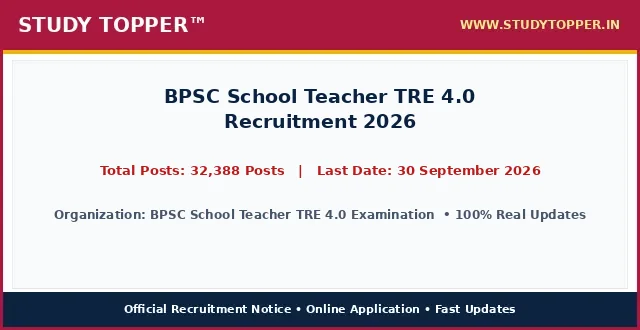
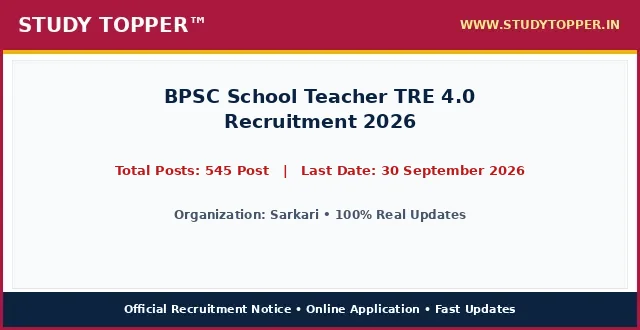
chore(lifecycle): daily auto-sort vacancies and update active dates

Changed region(s): [[0.1562, 0.4848, 0.8438, 0.5455], [0.0625, 0.6364, 0.9375, 0.6667]]

diff --git a/pages/bpsc-school-teacher-tre-4-0-2026.html b/pages/bpsc-school-teacher-tre-4-0-2026.html
@@ -987,12 +987,12 @@ ul.wp-block-latest-posts a:hover {
 <main class="site-main" id="main">
 <div class="gb-container gb-container-b39c368c">
 <h1 class="gb-headline gb-headline-e52a0102 gb-headline-text" style="font-size: 22px; font-weight: 700; color: #0000cd; text-align: left; margin: 8px 0 4px 0; line-height: 1.3; width: 100%; font-family: '-apple-system, BlinkMacSystemFont, 'Segoe UI', Roboto, 'Helvetica Neue', Arial, sans-serif', Times, serif, Hind, sans-serif;">BPSC School Teacher TRE 4.0 Recruitment 2026</h1>
-<div class="gb-container gb-container-659bd175"><p style="color: #cd0808; font-weight: 700; font-size: 15px; margin: 2px 0 7px 0; text-align: left; font-family: '-apple-system, BlinkMacSystemFont, 'Segoe UI', Roboto, 'Helvetica Neue', Arial, sans-serif', Times, serif, Hind, sans-serif;">Post Date: August 21, 2026 07:49 PM</p></div>
-<p class="gb-headline gb-headline-550ae316 short_Details gb-headline-text" style="width: 100%; max-width: 100%; font-size: 16.8px; line-height: 1.55; color: #000000; text-align: justify; text-justify: inter-word; margin: 8px 0 14px 0; display: block; font-family: '-apple-system, BlinkMacSystemFont, 'Segoe UI', Roboto, 'Helvetica Neue', Arial, sans-serif', Times, serif, Hind, sans-serif;"><strong style="color: #0000cd;">BPSC School Teacher TRE 4.0 Examination 2025</strong> has officially published the recruitment notice <strong style="color: #cd0808;">BPSC School Teacher TRE 4.0 Recruitment 2026</strong> under notification number Official Advt 2026. Online applications are invited for 32,388 Posts across multiple departments and cadre positions. Interested candidates possessing the requisite educational qualifications and falling between 21 Years (Class 9 to 10 & 11 to 12) to 42 Years (SC/ ST-Male & Female) can complete their online registration before the application deadline of 30 September 2026. Applicants should read the eligibility criteria, category reservation rules, and exam scheme thoroughly before submitting applications.</p>
+<div class="gb-container gb-container-659bd175"><p style="color: #cd0808; font-weight: 700; font-size: 15px; margin: 2px 0 7px 0; text-align: left; font-family: '-apple-system, BlinkMacSystemFont, 'Segoe UI', Roboto, 'Helvetica Neue', Arial, sans-serif', Times, serif, Hind, sans-serif;">Post Date: August 22, 2026 11:55 AM</p></div>
+<p class="gb-headline gb-headline-550ae316 short_Details gb-headline-text" style="width: 100%; max-width: 100%; font-size: 16.8px; line-height: 1.55; color: #000000; text-align: justify; text-justify: inter-word; margin: 8px 0 14px 0; display: block; font-family: '-apple-system, BlinkMacSystemFont, 'Segoe UI', Roboto, 'Helvetica Neue', Arial, sans-serif', Times, serif, Hind, sans-serif;"><strong style="color: #0000cd;">Sarkari</strong> has officially published the recruitment notice <strong style="color: #cd0808;">BPSC School Teacher TRE 4.0 Recruitment 2026</strong> under notification number Official Advt 2026. Online applications are invited for 545 Post across multiple departments and cadre positions. Interested candidates possessing the requisite educational qualifications and falling between 18 Years to 40 Years can complete their online registration before the application deadline of 30 September 2026. Applicants should read the eligibility criteria, category reservation rules, and exam scheme thoroughly before submitting applications.</p>
 <div class="gb-container gb-container-9849916c"><div class="social-buttons-compact" style="display: flex; justify-content: flex-start; align-items: center; gap: 10px; margin: 10px 0 16px 0; width: 100%;"><a class="social-btn-compact wa" href="https://whatsapp.com/channel/0029Va9xyz" rel="noopener" style="background-color: #00d084; color: #ffffff; padding: 10px 18px; border-radius: 4px; text-decoration: none; font-weight: bold; font-size: 15.5px; display: inline-flex; align-items: center; justify-content: center; height: auto;" target="_blank">WhatsApp</a><a class="social-btn-compact tg" href="https://t.me/studytopperofficial" rel="noopener" style="background-color: #0088cc; color: #ffffff; padding: 10px 18px; border-radius: 4px; text-decoration: none; font-weight: bold; font-size: 15.5px; display: inline-flex; align-items: center; justify-content: center; height: auto;" target="_blank">Telegram</a></div></div>
 <div class="gb-container gb-container-f58e6ca1" style="border: 2px solid #5b032f; border-radius: 4px; overflow: hidden; margin: 15px 0 20px 0; background-color: #ffffff; width: 100%; box-sizing: border-box;">
 <h2 class="gb-headline gb-headline-2ca5a791 gb-headline-text" style="font-size: 16px; font-weight: 700; text-align: center; color: #ef0303; line-height: 1.3; padding: 6px 4px; margin: 0; background: #ffffff; font-family: '-apple-system, BlinkMacSystemFont, 'Segoe UI', Roboto, 'Helvetica Neue', Arial, sans-serif', Times, serif, Hind, sans-serif;">BPSC School Teacher TRE 4.0 Recruitment 2026 &ndash; Latest Details &amp; Updates</h2>
-<h3 class="gb-headline gb-headline-7d5f86e8 gb-headline-text" style="font-size: 16px; font-weight: 600; text-align: center; color: #009703; line-height: 1.25; margin: 0; padding: 2px 4px 6px 4px; background: #ffffff; font-family: '-apple-system, BlinkMacSystemFont, 'Segoe UI', Roboto, 'Helvetica Neue', Arial, sans-serif', Times, serif, Hind, sans-serif;">BPSC School Teacher TRE 4.0 Examination 2025 : Details &amp; Summary</h3>
+<h3 class="gb-headline gb-headline-7d5f86e8 gb-headline-text" style="font-size: 16px; font-weight: 600; text-align: center; color: #009703; line-height: 1.25; margin: 0; padding: 2px 4px 6px 4px; background: #ffffff; font-family: '-apple-system, BlinkMacSystemFont, 'Segoe UI', Roboto, 'Helvetica Neue', Arial, sans-serif', Times, serif, Hind, sans-serif;">Sarkari : Details &amp; Summary</h3>
 <p class="gb-headline gb-headline-79adf169 gb-headline-text" style="margin: 0 0 6px 0; font-family: '-apple-system, BlinkMacSystemFont, 'Segoe UI', Roboto, 'Helvetica Neue', Arial, sans-serif', Times, serif, Hind, sans-serif; text-align: center; font-size: 18px; font-weight: 700;"><a href="/" style="color: #0000ff; text-decoration: underline;">StudyTopper.in</a></p>
 
 <style id="st-post-boxes-responsive-css">
@@ -1025,7 +1025,7 @@ ul.wp-block-latest-posts a:hover {
     <div style="background-color: #5b032f; color: #ffffff; padding: 8px 10px; font-size: 20px; font-weight: 700; text-align: center; font-family: '-apple-system, BlinkMacSystemFont, 'Segoe UI', Roboto, 'Helvetica Neue', Arial, sans-serif', Times, serif, Hind, sans-serif;">Important Dates</div>
     <div style="padding: 12px 14px; background-color: #ffffff;">
       <ul style="padding-left: 20px; margin: 0; list-style-type: disc; text-align: left; font-size: 14pt; line-height: 1.6; font-family: '-apple-system, BlinkMacSystemFont, 'Segoe UI', Roboto, 'Helvetica Neue', Arial, sans-serif', Times, serif, Hind, sans-serif;">
-        <li><span style="font-size: 14pt;">Online Apply Start Date : <strong>01 September 2026</strong></span></li><li><span style="font-size: 14pt;">Online Apply Last Date : <span style="color: #ff0000;"><strong>30 September 2026</strong></span></span></li><li><span style="font-size: 14pt;">Last Date For Fee Payment : <span style="color: #ff0000;"><strong>29 September 2026</strong></span></span></li><li><span style="font-size: 14pt;">Exam Date : <strong>Notify Later</strong></span></li><li><span style="font-size: 14pt;">Admit Card : <strong>Before Exam</strong></span></li><li><span style="font-size: 14pt;">Result Date : <strong>Will Be Updated Here Soon</strong></span></li>
+        
       </ul>
     </div>
   </div>
@@ -1034,7 +1034,7 @@ ul.wp-block-latest-posts a:hover {
     <div style="background-color: #5b032f; color: #ffffff; padding: 8px 10px; font-size: 20px; font-weight: 700; text-align: center; font-family: '-apple-system, BlinkMacSystemFont, 'Segoe UI', Roboto, 'Helvetica Neue', Arial, sans-serif', Times, serif, Hind, sans-serif;">Application Fee</div>
     <div style="padding: 12px 14px; background-color: #ffffff;">
       <ul style="padding-left: 20px; margin: 0; list-style-type: disc; text-align: left; font-size: 14pt; line-height: 1.6; font-family: '-apple-system, BlinkMacSystemFont, 'Segoe UI', Roboto, 'Helvetica Neue', Arial, sans-serif', Times, serif, Hind, sans-serif;">
-        <li><span style="font-size: 14pt;">For All Category Candidates : <strong>₹ 100/-</strong></span></li><li><span style="font-size: 14pt;">Payment Mode (Online) : <strong>You can make the payment using the following methods: Debit Card Credit Card Internet Banking IMPS Cash Card / Mobile Wallet</strong></span></li>
+        <li><span style="font-size: 14pt;">Bihar Police BPSSC Sub Inspector SI Prohibition Result 2026 Advt. No. : <strong>03/2026</strong></span></li><li><span style="font-size: 14pt;">UP Scholarship Online Form 2026 : <strong>2027</strong></span></li>
       </ul>
       <div style="margin-top: 10px; font-size: 14pt; line-height: 1.5; color: #000000; border-top: 1px dashed #ccc; padding-top: 8px; font-family: '-apple-system, BlinkMacSystemFont, 'Segoe UI', Roboto, 'Helvetica Neue', Arial, sans-serif', Times, serif, Hind, sans-serif;">
         <strong>Mode of Payment / Access:</strong> Online via Net Banking, Debit Card, Credit Card, UPI or Free Candidate Portal.
@@ -1047,10 +1047,10 @@ ul.wp-block-latest-posts a:hover {
 <div class="st-grid-row" style="display: flex; flex-wrap: wrap; width: 100%; border-top: 2px solid #5b032f; margin: 0; padding: 0; box-sizing: border-box;">
   <!-- Left Col: Age Limits -->
   <div class="st-col-half st-col-border-right" style="box-sizing: border-box; vertical-align: top;">
-    <div style="background-color: #046132; color: #ffffff; padding: 8px 10px; font-size: 17px; font-weight: 700; text-align: center; font-family: '-apple-system, BlinkMacSystemFont, 'Segoe UI', Roboto, 'Helvetica Neue', Arial, sans-serif', Times, serif, Hind, sans-serif;">BPSC School Teacher TRE 4.0 Examination 2025 : Age Limits As On 01 August 2026</div>
+    <div style="background-color: #046132; color: #ffffff; padding: 8px 10px; font-size: 17px; font-weight: 700; text-align: center; font-family: '-apple-system, BlinkMacSystemFont, 'Segoe UI', Roboto, 'Helvetica Neue', Arial, sans-serif', Times, serif, Hind, sans-serif;">Sarkari : Age Limits As On 01 August 2026</div>
     <div style="padding: 12px 14px; background-color: #ffffff;">
       <ul style="padding-left: 20px; margin: 0; list-style-type: disc; text-align: left; font-size: 14pt; line-height: 1.6; font-family: '-apple-system, BlinkMacSystemFont, 'Segoe UI', Roboto, 'Helvetica Neue', Arial, sans-serif', Times, serif, Hind, sans-serif;">
-        <li><span style="font-size: 14pt;">Minimum Age : <strong>21 Years (Class 9 to 10 & 11 to 12)</strong></span></li><li><span style="font-size: 14pt;">Maximum Age : <strong>42 Years (SC/ ST-Male & Female)</strong></span></li>
+        
       </ul>
     </div>
   </div>
@@ -1058,7 +1058,7 @@ ul.wp-block-latest-posts a:hover {
   <div class="st-col-half" style="box-sizing: border-box; vertical-align: top;">
     <div style="background-color: #f53c00; color: #ffffff; padding: 8px 10px; font-size: 20px; font-weight: 700; text-align: center; font-family: '-apple-system, BlinkMacSystemFont, 'Segoe UI', Roboto, 'Helvetica Neue', Arial, sans-serif', Times, serif, Hind, sans-serif;">Total Post</div>
     <div style="padding: 24px 10px; background-color: #ffffff; text-align: center;">
-      <span style="font-size: 28px; font-weight: 800; color: #000000; font-family: '-apple-system, BlinkMacSystemFont, 'Segoe UI', Roboto, 'Helvetica Neue', Arial, sans-serif', Times, serif, Hind, sans-serif;">32,388 Posts</span>
+      <span style="font-size: 28px; font-weight: 800; color: #000000; font-family: '-apple-system, BlinkMacSystemFont, 'Segoe UI', Roboto, 'Helvetica Neue', Arial, sans-serif', Times, serif, Hind, sans-serif;">545 Post</span>
     </div>
   </div>
 </div>
@@ -1070,19 +1070,7 @@ ul.wp-block-latest-posts a:hover {
 <div class="gb-container gb-container-ec1f6e4c">
 <h2 class="gb-headline gb-headline-c7683bda gb-headline-text" style="font-size: 24px; font-weight: 800; text-align: center; color: #ef0303; line-height: 1.35; margin: 20px 0 12px 0; padding: 6px 4px; font-family: '-apple-system, BlinkMacSystemFont, 'Segoe UI', Roboto, 'Helvetica Neue', Arial, sans-serif', Times, serif, Hind, sans-serif;">BPSC School Teacher TRE 4.0 Recruitment 2026 : Key Overview &amp; Matrix</h2>
 <div class="gb-headline gb-headline-60ccea19 gb-headline-text">
-<table style="border-collapse: collapse; width: 100%; height: 150px;">
-<tbody>
-<tr style="height: 25px;">
-<td colspan="2" style="width: 50%; text-align: center; height: 25px;"><span style="background-color: #000080; color: #ffffff; font-size: 14pt;"><strong> BPSC School Teacher TRE 4.0 Examination 2025 : Category Wise Vacancy Details </strong></span></td>
-</tr>
-<tr style="height: 25px;">
-<td style="width: 50%; height: 25px; text-align: center;"><span style="font-size: 14pt;"><strong>Category / Particulars</strong></span></td>
-<td style="width: 50%; height: 25px; text-align: center;"><span style="font-size: 14pt;"><strong>Count / Status</strong></span></td>
-</tr>
-<tr><td style="text-align: center;">General (UR)</td><td style="text-align: center; font-weight: normal; color: inherit;">As per Rules</td></tr><tr><td style="text-align: center;">OBC / EWS</td><td style="text-align: center; font-weight: normal; color: inherit;">As per Rules</td></tr><tr><td style="text-align: center;">SC / ST</td><td style="text-align: center; font-weight: normal; color: inherit;">As per Rules</td></tr><tr><td style="text-align: center;">Total Vacancies</td><td style="text-align: center; font-weight: bold; color: #ff0000;">32,388 Posts</td></tr>
-</tbody>
-</table>
-<p>&nbsp;</p>
+
 <table style="border-collapse: collapse; width: 100%;">
 <tbody>
 <tr>
@@ -1091,32 +1079,13 @@ ul.wp-block-latest-posts a:hover {
 <th style="background-color: #f53c00; color: #ffffff; padding: 6px 10px; text-align: center; border: 1px solid #d35400; font-size: 15px; font-weight: 700; font-family: '-apple-system, BlinkMacSystemFont, 'Segoe UI', Roboto, 'Helvetica Neue', Arial, sans-serif', Times, serif, Hind, sans-serif;">Eligibility Criteria</th>
 </tr>
 <tr>
-<td style="padding: 8px; border: 1px solid #ddd; font-weight: bold;">School Teacher (Class 1 to 5)</td>
-<td style="padding: 8px; border: 1px solid #ddd; text-align: center; font-weight: bold;">32,388 Posts</td>
-<td style="padding: 8px; border: 1px solid #ddd;">Bachelor Degree with 50% Marks and B.Ed Degree OR Bachelor Degree in Any Stream with Diploma in Elementary Education OR 10+2 Inter with 50% Marks with 2 Year Diploma in Elementary Education / Special Diploma OR 10+2 Inter with 45% Marks (As per 2002 Norms) with 2 Year Diploma in Elementary Education OR 10+2 Inter with 50% Marks with 4 Year BLEd Degree OR Master Degree with 55% Marks and B.Ed – Med 3 Year Degree CTET Paper I OR BTET Paper I Exam Qualified.</td>
-</tr><tr>
-<td style="padding: 8px; border: 1px solid #ddd; font-weight: bold;">Middle School Teacher (Class 6 to 8)</td>
-<td style="padding: 8px; border: 1px solid #ddd; text-align: center; font-weight: bold;">32,388 Posts</td>
-<td style="padding: 8px; border: 1px solid #ddd;">Graduate with 2 Year Diploma in Elementry Education (D.Ed) OR Graduate / Post Graduate with 50% Marks with B.Ed OR Graduate with 45% Marks and B.Ed (NCTE Norms) OR Graduate with 50% Marks and BA BED and B.Sc Ed OR Graduate with 50% Marks and B.Ed Special OR Post Graduate with 55% Marks and 3 Year B.Ed – M.Ed Course. Form More Details, Read Official Notification.</td>
-</tr><tr>
-<td style="padding: 8px; border: 1px solid #ddd; font-weight: bold;">School Teacher (Class 6 to 10)</td>
-<td style="padding: 8px; border: 1px solid #ddd; text-align: center; font-weight: bold;">32,388 Posts</td>
-<td style="padding: 8px; border: 1px solid #ddd;">Graduate / Post Graduate in Related Subject with Minimum 50% Marks and B.Ed Degree OR Graduate / Post Graduate in Related Subject with Minimum 45% Marks (As per 2002 Norms) and B.Ed Degree OR 4 Year Degree in BAEd / BScEd STET Paper I Exam Passed Form More Details, Read Official Notification.</td>
-</tr><tr>
-<td style="padding: 8px; border: 1px solid #ddd; font-weight: bold;">Secondary School Teacher (TGT) (Class 9 to 10)</td>
-<td style="padding: 8px; border: 1px solid #ddd; text-align: center; font-weight: bold;">32,388 Posts</td>
-<td style="padding: 8px; border: 1px solid #ddd;">Graduate / Post Graduate in Related Subject with Minimum 50% Marks and B.Ed Degree OR Graduate / Post Graduate in Related Subject with Minimum 45% Marks (As per 2002 Norms) and B.Ed Degree OR 4 Year Degree in BAEd / BScEd STET Paper I Exam Passed (Subject Wise) Form More Details, Read Official Notification.</td>
-</tr><tr>
-<td style="padding: 8px; border: 1px solid #ddd; font-weight: bold;">Secondary School Teacher (TGT)-Special (Class 9 to 10)</td>
-<td style="padding: 8px; border: 1px solid #ddd; text-align: center; font-weight: bold;">32,388 Posts</td>
-<td style="padding: 8px; border: 1px solid #ddd;">Graduate / Post Graduate in Related Subject with Minimum 50% Marks and B.Ed Degree OR Graduate / Post Graduate Degree in Related Subject with Minimum 45% Marks (As per 2002 Norms) and B.Ed Degree OR 4 Year Degree in BAEd / BScEd STET Paper I Exam Passed (Subject Wise)</td>
-</tr><tr>
-<td style="padding: 8px; border: 1px solid #ddd; font-weight: bold;">10+2 School Teacher (PGT) (Class 11 to 12)</td>
-<td style="padding: 8px; border: 1px solid #ddd; text-align: center; font-weight: bold;">32,388 Posts</td>
-<td style="padding: 8px; border: 1px solid #ddd;">Post Graduate in Related Subject with Minimum 50% Marks and B.Ed Degree OR Post Graduate in Related Subject with Minimum 45% Marks (As per 2002 Norms) and B.Ed Degree OR Post Graduate in Related Subject with 4 Year Degree in BAEd / BScEd OR Master Degree with 55% Marks and B.Ed – Med 3 Year Degree. STET Paper II Exam Passed Form More Details, Read Official Notification.</td>
+<td style="padding: 8px; border: 1px solid #ddd; font-weight: bold;">Sarkari Recruitment</td>
+<td style="padding: 8px; border: 1px solid #ddd; text-align: center; font-weight: bold;">545 Post</td>
+<td style="padding: 8px; border: 1px solid #ddd;">Please refer to the official notification linked below for detailed educational qualifications.</td>
 </tr>
 </tbody>
 </table>
+<p>&nbsp;</p>
 <p>&nbsp;</p>
 
 
@@ -1124,10 +1093,10 @@ ul.wp-block-latest-posts a:hover {
 <table style="border-collapse: collapse; width: 100%;">
 <tbody>
 <tr>
-<td style="width: 100%; text-align: center;"><span style="background-color: #000080; color: #ffffff; font-size: 14pt; font-weight: bold; display: block; padding: 6px;"> How to Fill BPSC School Teacher TRE 4.0 Examination 2025 Online Application Form </span></td>
+<td style="width: 100%; text-align: center;"><span style="background-color: #000080; color: #ffffff; font-size: 14pt; font-weight: bold; display: block; padding: 6px;"> How to Fill Sarkari Online Application Form </span></td>
 </tr>
 <tr>
-<td style="width: 100%;"><ol style="margin:0; padding-left:18px; text-align: left !important; list-style-position: outside !important"><li style="margin-bottom:6px; text-align: left !important;">Visit official portal for BPSC School Teacher TRE 4.0 Recruitment 2026 via direct application link in important links section below.</li><li style="margin-bottom:6px; text-align: left !important;">Read official recruitment notification carefully to verify category eligibility criteria and age limits.</li><li style="margin-bottom:6px; text-align: left !important;">Complete online candidate registration with valid mobile number and email ID.</li><li style="margin-bottom:6px; text-align: left !important;">Fill educational qualifications, identity details, and permanent address accurately.</li><li style="margin-bottom:6px; text-align: left !important;">Upload scanned photograph and signature in required dimensions.</li><li style="margin-bottom:6px; text-align: left !important;">Resize candidate photograph and signature accurately using StudyTopper Tools resizer at indtool.in.</li><li style="margin-bottom:6px; text-align: left !important;">Pay applicable category application fee online using Debit Card, Credit Card, Net Banking, or UPI.</li><li style="margin-bottom:6px; text-align: left !important;">Review full application form preview thoroughly and submit before 30 September 2026.</li><li style="margin-bottom:6px; text-align: left !important;">Download and print submitted application confirmation page for future reference.</li></ol></td>
+<td style="width: 100%;"><ol style="margin:0; padding-left:18px; text-align: left !important; list-style-position: outside !important"><li style="margin-bottom:6px; text-align: left !important;">Read the official recruitment notification carefully before applying.</li><li style="margin-bottom:6px; text-align: left !important;">Keep all basic documents ready: ID Proof, Address Details, Basic Details.</li><li style="margin-bottom:6px; text-align: left !important;">Ready your scanned documents like Photo, Signature, ID Proof, etc.</li><li style="margin-bottom:6px; text-align: left !important;">Click on the 'Apply Online' link given in the Important Links section below.</li><li style="margin-bottom:6px; text-align: left !important;">Fill out all the columns in the application form accurately.</li><li style="margin-bottom:6px; text-align: left !important;">Pay the required application fee if applicable.</li><li style="margin-bottom:6px; text-align: left !important;">Take a printout of the final submitted application form.</li><li style="margin-bottom:6px; text-align: left !important;">Resize candidate photograph and signature accurately using the <a href="https://indtool.in" rel="noopener" target="_blank"><strong>StudyTopper Tools</strong></a> image resizer at indtool.in.</li></ol></td>
 </tr>
 </tbody>
 </table>
@@ -1135,12 +1104,12 @@ ul.wp-block-latest-posts a:hover {
 <table style="border-collapse: collapse; width: 100%;">
 <tbody>
 <tr>
-<td style="width: 100%; text-align: center;"><span style="background-color: #000080; color: #ffffff; font-size: 14pt;"><strong><span style="color: #ffffff;"> BPSC School Teacher TRE 4.0 Examination 2025 Recruitment 2026 : Mode Of Selection </span></strong></span></td>
+<td style="width: 100%; text-align: center;"><span style="background-color: #000080; color: #ffffff; font-size: 14pt;"><strong><span style="color: #ffffff;"> Sarkari Recruitment 2026 : Mode Of Selection </span></strong></span></td>
 </tr>
 <tr>
 <td style="width: 100%;">
 <ul class="wp-block-list" style="text-align: left !important; list-style-position: outside !important">
-<li style="text-align: left !important;"><span style="font-size: 14pt;"><strong>Computer Based Examination (CBE) / Evaluation</strong></span></li><li style="text-align: left !important;"><span style="font-size: 14pt;"><strong>Document Verification</strong></span></li><li style="text-align: left !important;"><span style="font-size: 14pt;"><strong>Final Merit Allotment</strong></span></li>
+<li style="text-align: left !important;"><span style="font-size: 14pt;"><strong>Computer Based Examination (CBE) / Written Exam</strong></span></li><li style="text-align: left !important;"><span style="font-size: 14pt;"><strong>Document Verification</strong></span></li><li style="text-align: left !important;"><span style="font-size: 14pt;"><strong>Medical Examination</strong></span></li>
 </ul>
 </td>
 </tr>
@@ -1178,39 +1147,39 @@ ul.wp-block-latest-posts a:hover {
 <span style="font-size: 19px; font-weight: 800; color: #000000; font-family: '-apple-system, BlinkMacSystemFont, 'Segoe UI', Roboto, 'Helvetica Neue', Arial, sans-serif', Times, serif, Hind, sans-serif;">Apply Online Link</span>
 </td>
 <td style="width: 50%; padding: 14px 16px; text-align: center;">
-<span style="font-size: 20px; font-weight: 800; font-family: '-apple-system, BlinkMacSystemFont, 'Segoe UI', Roboto, 'Helvetica Neue', Arial, sans-serif', Times, serif, Hind, sans-serif;"><a href="https://whatsapp.com/channel/0029VaAbQf01NCrYADMLt00L" aria-label="Click Here for Apply Online Link - BPSC School Teacher TRE 4.0 Recruitment 2026" rel="noopener noreferrer" style="color: #0000ef; font-weight: 800; text-decoration: none;" target="_blank">Click Here</a></span>
+<span style="font-size: 20px; font-weight: 800; font-family: '-apple-system, BlinkMacSystemFont, 'Segoe UI', Roboto, 'Helvetica Neue', Arial, sans-serif', Times, serif, Hind, sans-serif;"><a href="https://www.sarkariresult.com/2026/mpesb-group2-subgroup-4-aug26/" aria-label="Click Here for Apply Online Link - BPSC School Teacher TRE 4.0 Recruitment 2026" rel="noopener noreferrer" style="color: #0000ef; font-weight: 800; text-decoration: none;" target="_blank">Click Here</a></span>
 </td>
 </tr>
 <tr style="border-bottom: 1px solid #000000; background-color: #fff37a;">
 <td style="width: 50%; padding: 14px 16px; border-right: 1px solid #000000; text-align: center;">
-<span style="font-size: 19px; font-weight: 800; color: #000000; font-family: '-apple-system, BlinkMacSystemFont, 'Segoe UI', Roboto, 'Helvetica Neue', Arial, sans-serif', Times, serif, Hind, sans-serif;">Check Short Notice</span>
+<span style="font-size: 19px; font-weight: 800; color: #000000; font-family: '-apple-system, BlinkMacSystemFont, 'Segoe UI', Roboto, 'Helvetica Neue', Arial, sans-serif', Times, serif, Hind, sans-serif;">Check Official Notification</span>
 </td>
 <td style="width: 50%; padding: 14px 16px; text-align: center;">
-<span style="font-size: 20px; font-weight: 800; font-family: '-apple-system, BlinkMacSystemFont, 'Segoe UI', Roboto, 'Helvetica Neue', Arial, sans-serif', Times, serif, Hind, sans-serif;"><a href="http://sarkariresult.com.cm/wp-content/uploads/2026/08/BPSC-TRE.0-Notice-2026.jpg" aria-label="Click Here for Check Short Notice - BPSC School Teacher TRE 4.0 Recruitment 2026" rel="noopener noreferrer" style="color: #0000ef; font-weight: 800; text-decoration: none;" target="_blank">Click Here</a></span>
+<span style="font-size: 20px; font-weight: 800; font-family: '-apple-system, BlinkMacSystemFont, 'Segoe UI', Roboto, 'Helvetica Neue', Arial, sans-serif', Times, serif, Hind, sans-serif;"><a href="" aria-label="Click Here for Check Official Notification - BPSC School Teacher TRE 4.0 Recruitment 2026" rel="noopener noreferrer" style="color: #0000ef; font-weight: 800; text-decoration: none;" target="_blank">Click Here</a></span>
 </td>
 </tr>
 <tr style="border-bottom: 1px solid #000000; background-color: #fff37a;">
 <td style="width: 50%; padding: 14px 16px; border-right: 1px solid #000000; text-align: center;">
-<span style="font-size: 19px; font-weight: 800; color: #000000; font-family: '-apple-system, BlinkMacSystemFont, 'Segoe UI', Roboto, 'Helvetica Neue', Arial, sans-serif', Times, serif, Hind, sans-serif;">Download Official Notification</span>
+<span style="font-size: 19px; font-weight: 800; color: #000000; font-family: '-apple-system, BlinkMacSystemFont, 'Segoe UI', Roboto, 'Helvetica Neue', Arial, sans-serif', Times, serif, Hind, sans-serif;">Photo / Sign Resizer Tool</span>
 </td>
 <td style="width: 50%; padding: 14px 16px; text-align: center;">
-<span style="font-size: 20px; font-weight: 800; font-family: '-apple-system, BlinkMacSystemFont, 'Segoe UI', Roboto, 'Helvetica Neue', Arial, sans-serif', Times, serif, Hind, sans-serif;"><a href="http://sarkariresult.com.cm/wp-content/uploads/2026/08/BPSC_TRE_4_NOTIFICATION_2026.pdf" aria-label="Click Here for Download Official Notification - BPSC School Teacher TRE 4.0 Recruitment 2026" rel="noopener noreferrer" style="color: #0000ef; font-weight: 800; text-decoration: none;" target="_blank">Click Here</a></span>
+<span style="font-size: 20px; font-weight: 800; font-family: '-apple-system, BlinkMacSystemFont, 'Segoe UI', Roboto, 'Helvetica Neue', Arial, sans-serif', Times, serif, Hind, sans-serif;"><a href="https://indtool.in" aria-label="Click Here for Photo / Sign Resizer Tool - BPSC School Teacher TRE 4.0 Recruitment 2026" rel="noopener noreferrer" style="color: #0000ef; font-weight: 800; text-decoration: none;" target="_blank">Click Here</a></span>
 </td>
 </tr>
 <tr style="border-bottom: 1px solid #000000; background-color: #fff37a;">
-<td style="width: 50%; padding: 14px 16px; border-right: 1px solid #000000; text-align: center;">
-<span style="font-size: 19px; font-weight: 800; color: #000000; font-family: '-apple-system, BlinkMacSystemFont, 'Segoe UI', Roboto, 'Helvetica Neue', Arial, sans-serif', Times, serif, Hind, sans-serif;">Bihar BPSC Official Website</span>
-</td>
-<td style="width: 50%; padding: 14px 16px; text-align: center;">
-<span style="font-size: 20px; font-weight: 800; font-family: '-apple-system, BlinkMacSystemFont, 'Segoe UI', Roboto, 'Helvetica Neue', Arial, sans-serif', Times, serif, Hind, sans-serif;"><a href="http://www.bpsc.bih.nic.in/" aria-label="Click Here for Bihar BPSC Official Website - BPSC School Teacher TRE 4.0 Recruitment 2026" rel="noopener noreferrer" style="color: #0000ef; font-weight: 800; text-decoration: none;" target="_blank">Click Here</a></span>
-</td>
-</tr>
-<tr style=" background-color: #fff37a;">
 <td style="width: 50%; padding: 14px 16px; border-right: 1px solid #000000; text-align: center;">
 <span style="font-size: 19px; font-weight: 800; color: #000000; font-family: '-apple-system, BlinkMacSystemFont, 'Segoe UI', Roboto, 'Helvetica Neue', Arial, sans-serif', Times, serif, Hind, sans-serif;">Check Sarkari Result</span>
 </td>
 <td style="width: 50%; padding: 14px 16px; text-align: center;">
 <span style="font-size: 20px; font-weight: 800; font-family: '-apple-system, BlinkMacSystemFont, 'Segoe UI', Roboto, 'Helvetica Neue', Arial, sans-serif', Times, serif, Hind, sans-serif;"><a href="/" aria-label="Click Here for Check Sarkari Result - BPSC School Teacher TRE 4.0 Recruitment 2026" rel="noopener noreferrer" style="color: #0000ef; font-weight: 800; text-decoration: none;" >Click Here</a></span>
+</td>
+</tr>
+<tr style=" background-color: #fff37a;">
+<td style="width: 50%; padding: 14px 16px; border-right: 1px solid #000000; text-align: center;">
+<span style="font-size: 19px; font-weight: 800; color: #000000; font-family: '-apple-system, BlinkMacSystemFont, 'Segoe UI', Roboto, 'Helvetica Neue', Arial, sans-serif', Times, serif, Hind, sans-serif;">Sarkari Website</span>
+</td>
+<td style="width: 50%; padding: 14px 16px; text-align: center;">
+<span style="font-size: 20px; font-weight: 800; font-family: '-apple-system, BlinkMacSystemFont, 'Segoe UI', Roboto, 'Helvetica Neue', Arial, sans-serif', Times, serif, Hind, sans-serif;"><a href="" aria-label="Click Here for Sarkari Website - BPSC School Teacher TRE 4.0 Recruitment 2026" rel="noopener noreferrer" style="color: #0000ef; font-weight: 800; text-decoration: none;" target="_blank">Click Here</a></span>
 </td>
 </tr>
 </tbody>
@@ -1224,9 +1193,9 @@ ul.wp-block-latest-posts a:hover {
   <div style="font-size: 14.5px; line-height: 1.65; color: #222222;">
     <p style="margin: 0 0 4px 0;"><strong style="color: #000080;">Q1. What is the last date to apply for BPSC School Teacher TRE 4.0 Recruitment 2026?</strong></p>
 <p style="margin: 0 0 16px 0; color: #333333; line-height: 1.6;">Ans. The last date for online submission of application is 30 September 2026.</p><p style="margin: 0 0 4px 0;"><strong style="color: #000080;">Q2. What is the age limit for BPSC School Teacher TRE 4.0 Recruitment 2026?</strong></p>
-<p style="margin: 0 0 16px 0; color: #333333; line-height: 1.6;">Ans. Candidate age should generally be between 21 Years (Class 9 to 10 & 11 to 12) and 42 Years (SC/ ST-Male & Female) as on 01 August 2026. Age relaxation is applicable per rules.</p><p style="margin: 0 0 4px 0;"><strong style="color: #000080;">Q3. What is the application fee for BPSC School Teacher TRE 4.0 Recruitment 2026?</strong></p>
+<p style="margin: 0 0 16px 0; color: #333333; line-height: 1.6;">Ans. Candidate age should generally be between 18 Years and 40 Years as on 01 August 2026. Age relaxation is applicable per rules.</p><p style="margin: 0 0 4px 0;"><strong style="color: #000080;">Q3. What is the application fee for BPSC School Teacher TRE 4.0 Recruitment 2026?</strong></p>
 <p style="margin: 0 0 16px 0; color: #333333; line-height: 1.6;">Ans. Application fee varies by category (e.g., General/OBC: Rs. 100/-, SC/ST/PwD: Exempted).</p><p style="margin: 0 0 4px 0;"><strong style="color: #000080;">Q4. How many total posts are available in BPSC School Teacher TRE 4.0 Recruitment 2026?</strong></p>
-<p style="margin: 0 0 16px 0; color: #333333; line-height: 1.6;">Ans. A total of 32,388 Posts have been officially announced for this recruitment drive.</p><p style="margin: 0 0 4px 0;"><strong style="color: #000080;">Q5. How can I apply online for BPSC School Teacher TRE 4.0 Recruitment 2026?</strong></p>
+<p style="margin: 0 0 16px 0; color: #333333; line-height: 1.6;">Ans. A total of 545 Post have been officially announced for this recruitment drive.</p><p style="margin: 0 0 4px 0;"><strong style="color: #000080;">Q5. How can I apply online for BPSC School Teacher TRE 4.0 Recruitment 2026?</strong></p>
 <p style="margin: 0 0 0 0; color: #333333; line-height: 1.6;">Ans. Eligible candidates can click the 'Apply Online' link in the Important Links table, register, fill details, resize photo/signature via indtool.in, and submit before 30 September 2026.</p>
   </div>
 </div>
